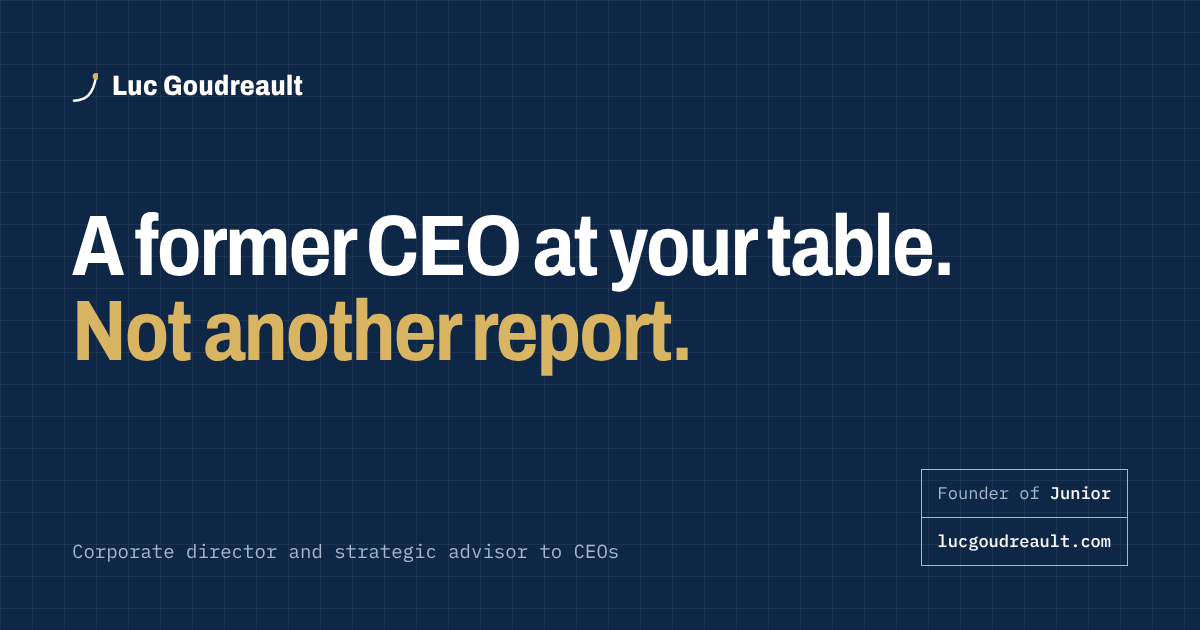
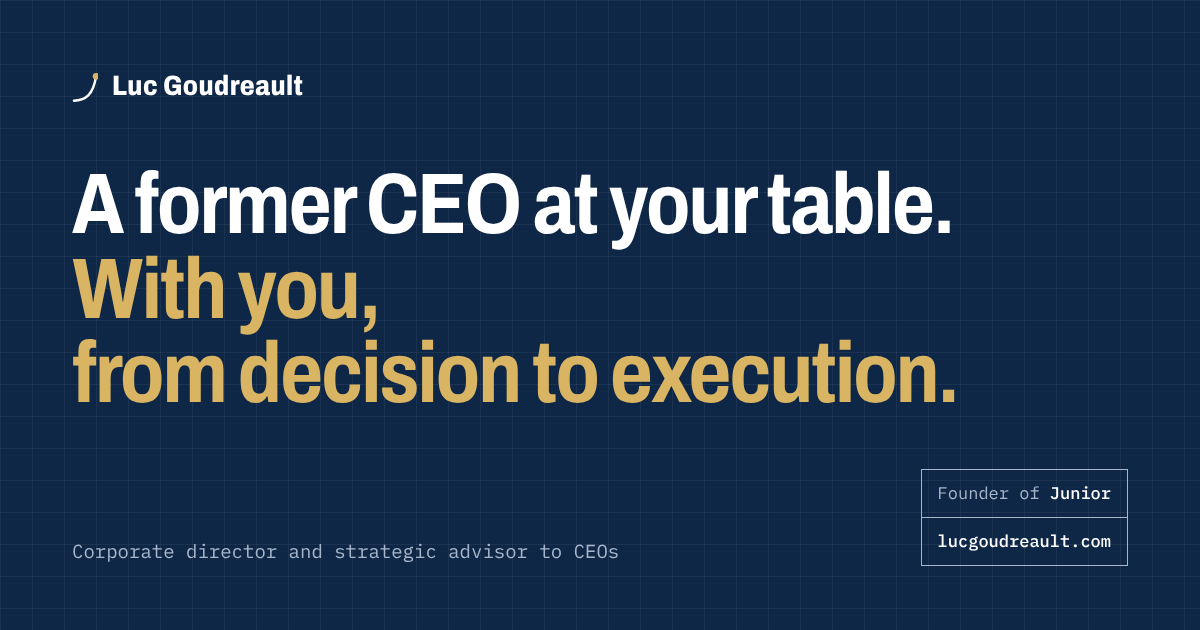
Change la deuxième ligne de l'accroche : « Avec vous, de la décision à l'exécution. »
Remplace « Pas un rapport de plus. » dans le titre de l'accueil (FR et EN) et
dans les deux images de partage, régénérées.

Claude-Session: https://claude.ai/code/session_01WoqPj9ar25wRFxYAjDQ7Xp

Changed region(s): [[0.0617, 0.2714, 0.8017, 0.6635]]

diff --git a/scripts/og.html b/scripts/og.html
@@ -18,7 +18,7 @@ h1 .l2{display:block;color:var(--gold-bright)}
 .box b{color:#fff;font-weight:500}
 </style></head><body><div class="og">
 <div class="top"><svg viewBox="0 0 54 68"><path fill="none" stroke="#fff" stroke-width="5" stroke-linecap="round" d="M4 64C28 63 44 52 50 13"/><circle cx="50" cy="13" r="7" fill="#D8B463"/></svg><span class="n">Luc Goudreault</span></div>
-<h1>Un ex-CEO à votre table.<span class="l2">Pas un rapport de plus.</span></h1>
+<h1>Un ex-CEO à votre table.<span class="l2">Avec vous,<br>de la décision à l'exécution.</span></h1>
 <div class="bottom"><span style="max-width:560px">Administrateur de sociétés et conseiller stratégique de dirigeants</span>
 <div class="box"><div>Fondateur de <b>Junior</b></div><div><b>lucgoudreault.com</b></div></div></div>
 </div></body></html>

diff --git a/scripts/og-en.html b/scripts/og-en.html
@@ -18,7 +18,7 @@ h1 .l2{display:block;color:var(--gold-bright)}
 .box b{color:#fff;font-weight:500}
 </style></head><body><div class="og">
 <div class="top"><svg viewBox="0 0 54 68"><path fill="none" stroke="#fff" stroke-width="5" stroke-linecap="round" d="M4 64C28 63 44 52 50 13"/><circle cx="50" cy="13" r="7" fill="#D8B463"/></svg><span class="n">Luc Goudreault</span></div>
-<h1>A former CEO at your table.<span class="l2">Not another report.</span></h1>
+<h1>A former CEO at your table.<span class="l2">With you,<br>from decision to execution.</span></h1>
 <div class="bottom"><span style="max-width:560px">Corporate director and strategic advisor to CEOs</span>
 <div class="box"><div>Founder of <b>Junior</b></div><div><b>lucgoudreault.com</b></div></div></div>
 </div></body></html>

diff --git a/fr/index.html b/fr/index.html
@@ -53,7 +53,7 @@
     <div class="wrap sheet-head-grid">
       <div>
         <p class="kicker">Administrateur de sociétés et conseiller stratégique de dirigeants</p>
-        <h1><span class="line">Un ex-CEO à&nbsp;votre table.</span><span class="line">Pas un rapport de plus.</span></h1>
+        <h1><span class="line">Un ex-CEO à&nbsp;votre table.</span><span class="line">Avec vous, de la décision à&nbsp;l'exécution.</span></h1>
         <p class="lede">Je travaille avec les dirigeants de PME en croissance sur les décisions qui engagent l'entreprise : stratégie, commercialisation, croissance. Avec le recul de quelqu'un qui a déjà occupé le poste.</p>
         <div class="actions">
           <a class="btn" href="contact">Prendre contact</a>

diff --git a/en/index.html b/en/index.html
@@ -53,7 +53,7 @@
     <div class="wrap sheet-head-grid">
       <div>
         <p class="kicker">Corporate director and strategic advisor to CEOs</p>
-        <h1><span class="line">A former CEO at your table.</span><span class="line">Not another report.</span></h1>
+        <h1><span class="line">A former CEO at your table.</span><span class="line">With you, from decision to execution.</span></h1>
         <p class="lede">I work with the leaders of growing SMEs on the decisions that shape the company: strategy, go-to-market, growth. With the perspective of someone who has sat in that chair.</p>
         <div class="actions">
           <a class="btn" href="contact">Get in touch</a>
